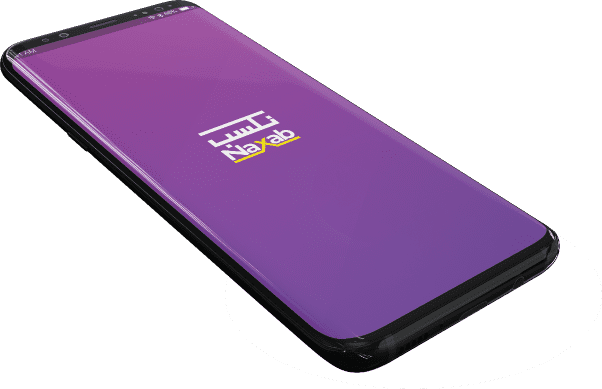
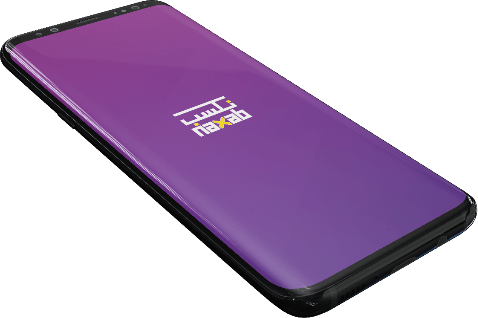
change images

Changed region(s): [[0.0, 0.0, 1.0, 1.0], [0.3222, 0.283, 0.5272, 0.4245]]

diff --git a/components/homepage/About.vue b/components/homepage/About.vue
@@ -41,8 +41,11 @@
         </div>
         <!-- toggles description length visibility -->
         <div v-if="(global.currentTab === 'customers' ? parseInt(texts.customers.about.description.length) : parseInt(texts.sellers.about.description.length)) > descriptionCharactersLimit" class="flex items-center justify-end mt-4 sm:mt-6 md:mt-7">
-          <button @click="() => isFullDescriptionShown = true" v-if="!isFullDescriptionShown" class="hightlighted__button primary__button">المزيد</button>
-          <button @click="() => isFullDescriptionShown = false" v-else class="hightlighted__button primary__button ease-linear duration-150">اقل</button>
+          <button @click="() => isFullDescriptionShown = !isFullDescriptionShown" class="hightlighted__button primary__button flex items-center gap-2 active:brightness-150">
+            <span v-if="!isFullDescriptionShown">المزيد</span>
+            <span v-else>أقل</span>
+            <svg :style="{transform: isFullDescriptionShown ? 'rotate(180deg)' : 'rotate(0)'}" class="ease-linear duration-100" xmlns="http://www.w3.org/2000/svg" width="20" height="20" viewBox="0 0 256 256"><path fill="currentColor" d="m216.49 104.49l-80 80a12 12 0 0 1-17 0l-80-80a12 12 0 0 1 17-17L128 159l71.51-71.52a12 12 0 0 1 17 17Z"/></svg>
+          </button>
         </div>
       </div>
     </div>

diff --git a/changelog.md b/changelog.md
@@ -16,3 +16,4 @@
 - convert the "texts" file to have a JS instead of JSON extension to allow for mutli-line breaking in some sentences
 - make the active link on the mobile menu to be bolder and have a color of white
 - enhance the SEO, Accessibility and best practices on Lighthouse
+- change some images that has the old logo with the new one
